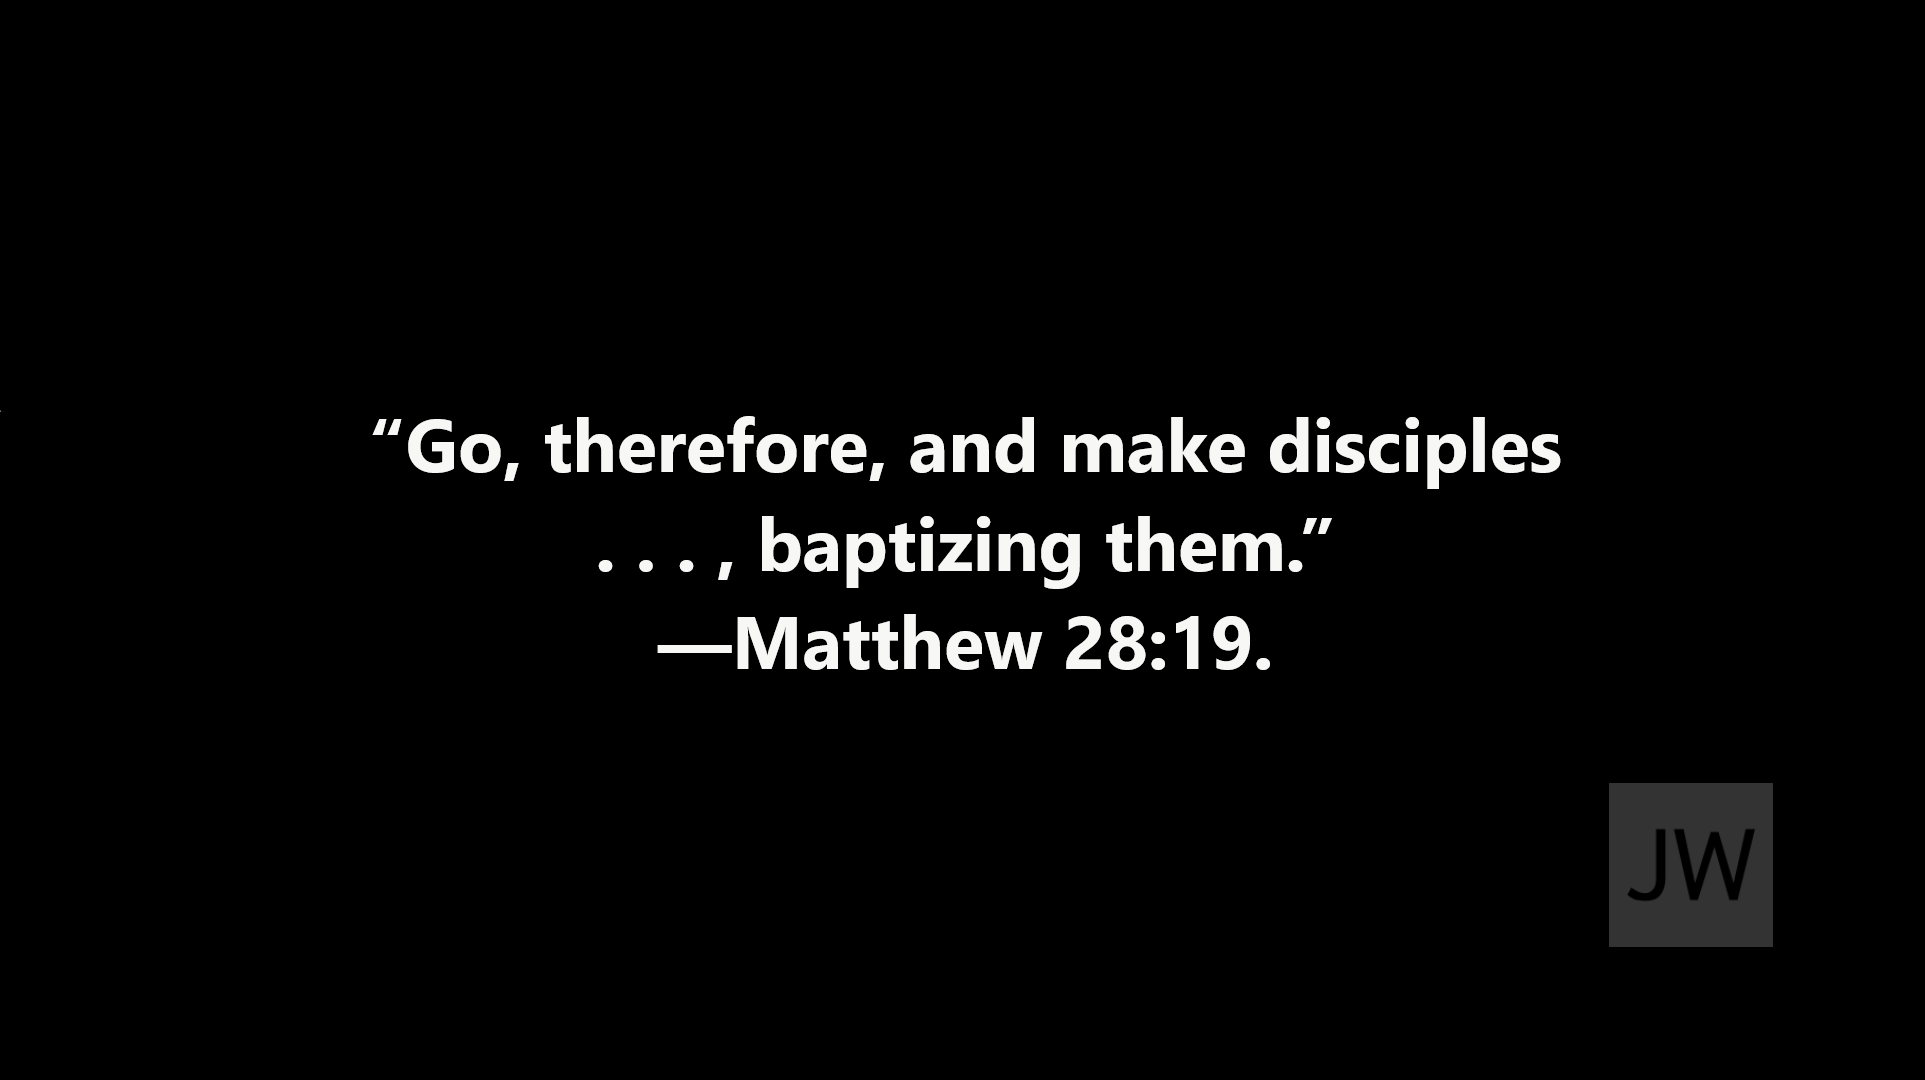
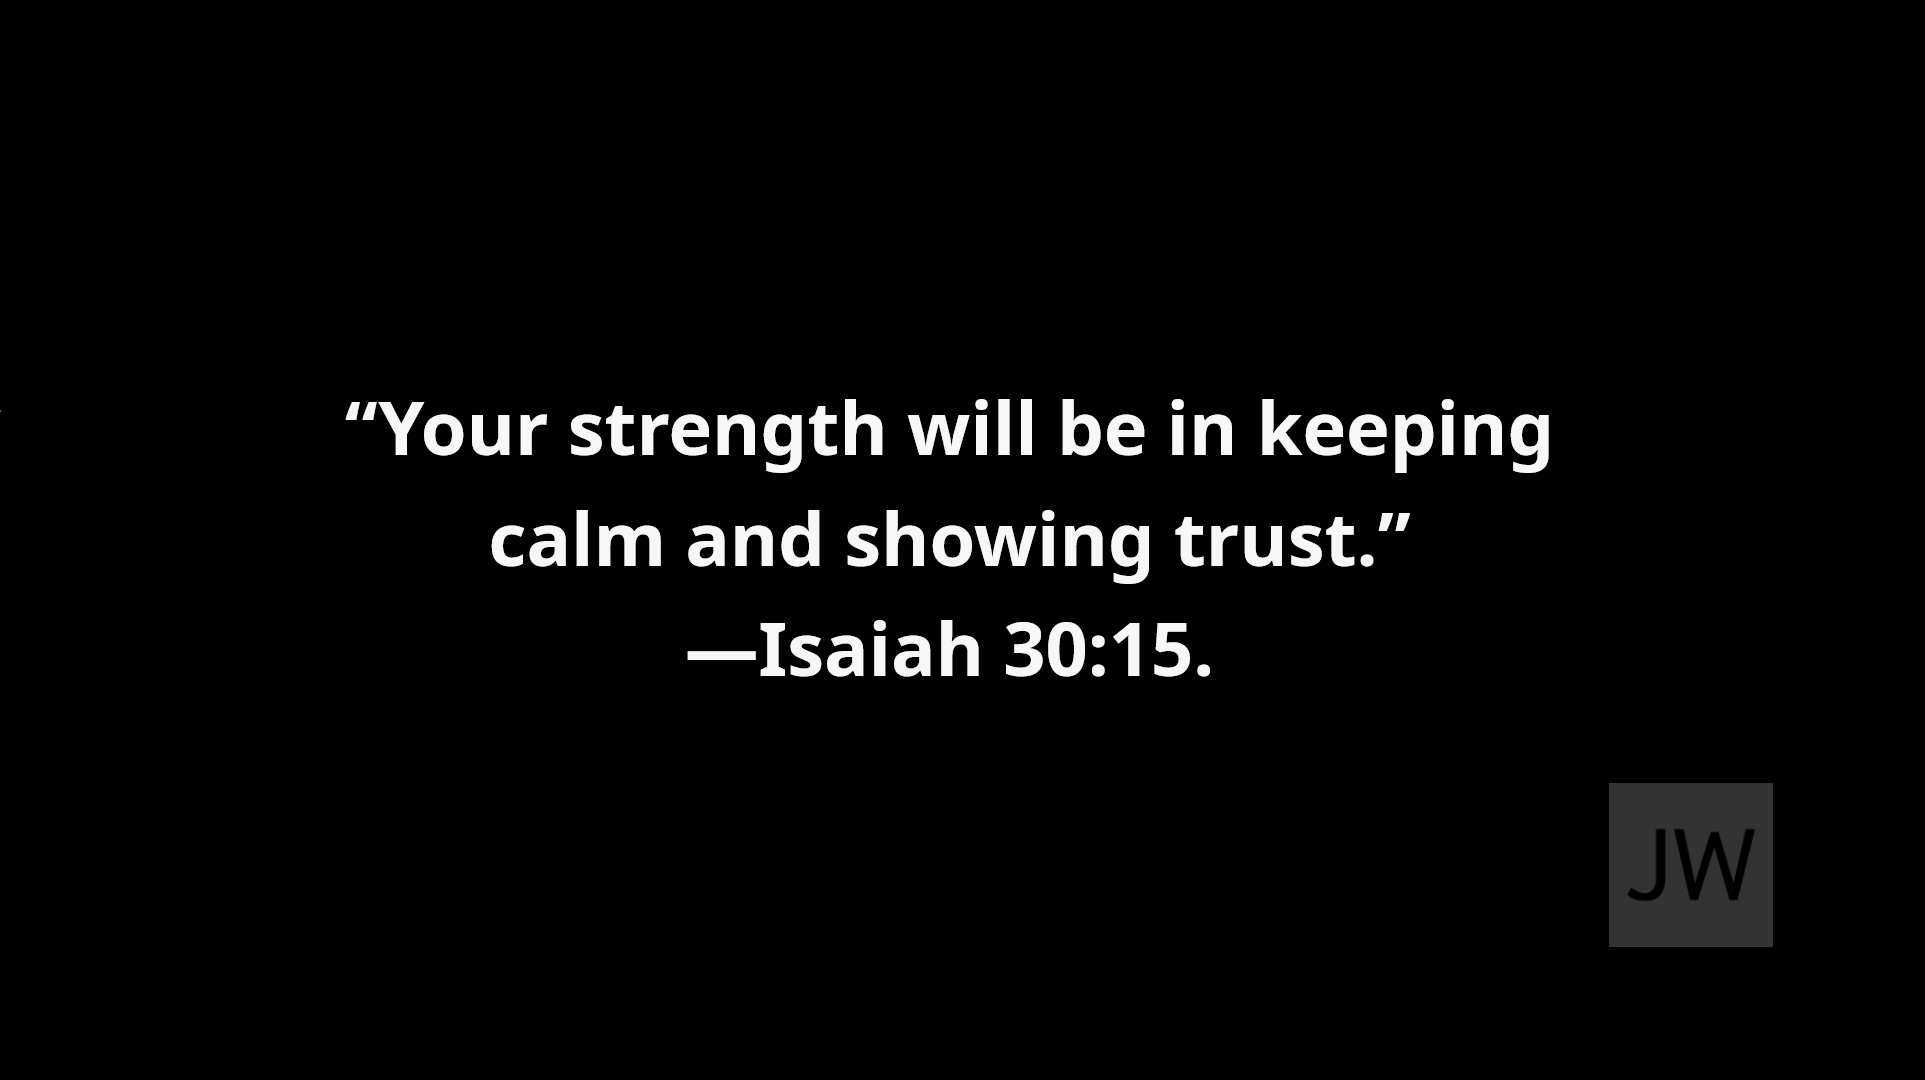
fixed yeartext

Changed region(s): [[0.187, 0.3667, 0.8104, 0.6417]]

diff --git a/src/App.js b/src/App.js
@@ -7,11 +7,11 @@ const style = {
   page: css({
     textAlign: "center",
     width: "90vw",
-    margin: "auto",
+    margin: "auto"
   }),
   audioPlayer: css({
     width: "100%",
-    display: "none",
+    display: "none"
   }),
   skipButton: css({
     background: "#711D8C",
@@ -20,15 +20,15 @@ const style = {
     cursor: "pointer",
     fontSize: "2rem",
     outline: "none",
-    padding: "2rem",
-  }),
+    padding: "2rem"
+  })
 };
 
 const App = () => {
   const [songs, setSongs] = React.useState([]);
   const [song, setSong] = React.useState(null);
 
-  const chooseRandomSong = (_songs) => {
+  const chooseRandomSong = _songs => {
     const list = (Array.isArray(_songs) && _songs) || songs;
     if (!list || !list.length) {
       return reloadSongManifest();
@@ -38,7 +38,7 @@ const App = () => {
     setSongs(list.filter((ignore, i) => i !== selectedSong));
   };
   const reloadSongManifest = () => {
-    loadAllSongs().then((files) => {
+    loadAllSongs().then(files => {
       chooseRandomSong(files);
     });
   };
@@ -55,7 +55,7 @@ const App = () => {
   // couldn't use a ref because it's ready after first song
   // and can't use volume attribute for some reason, it's ignored
   // on chrome at least
-  const onStart = (e) => {
+  const onStart = e => {
     e.target.volume = 0.06;
   };
 
